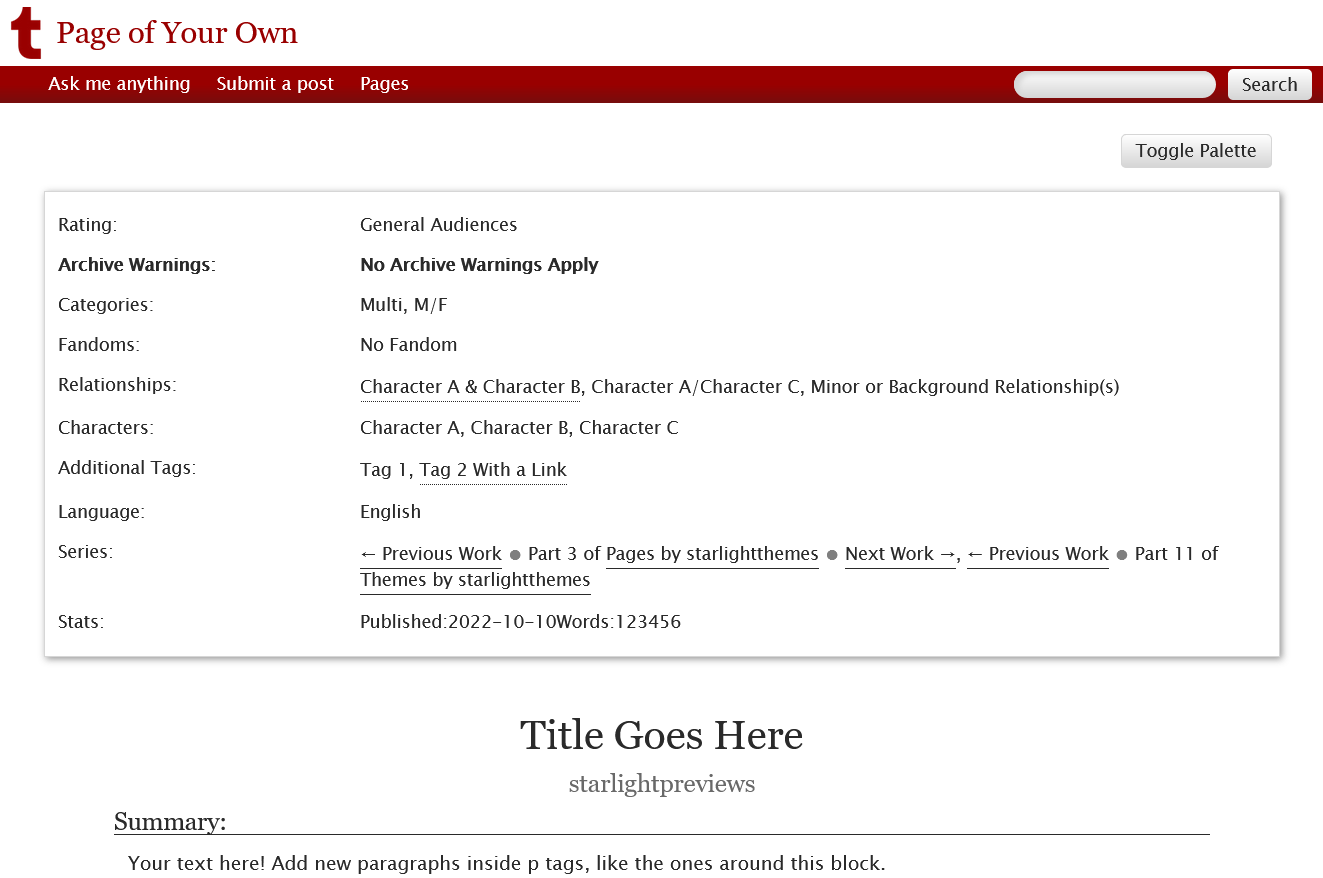
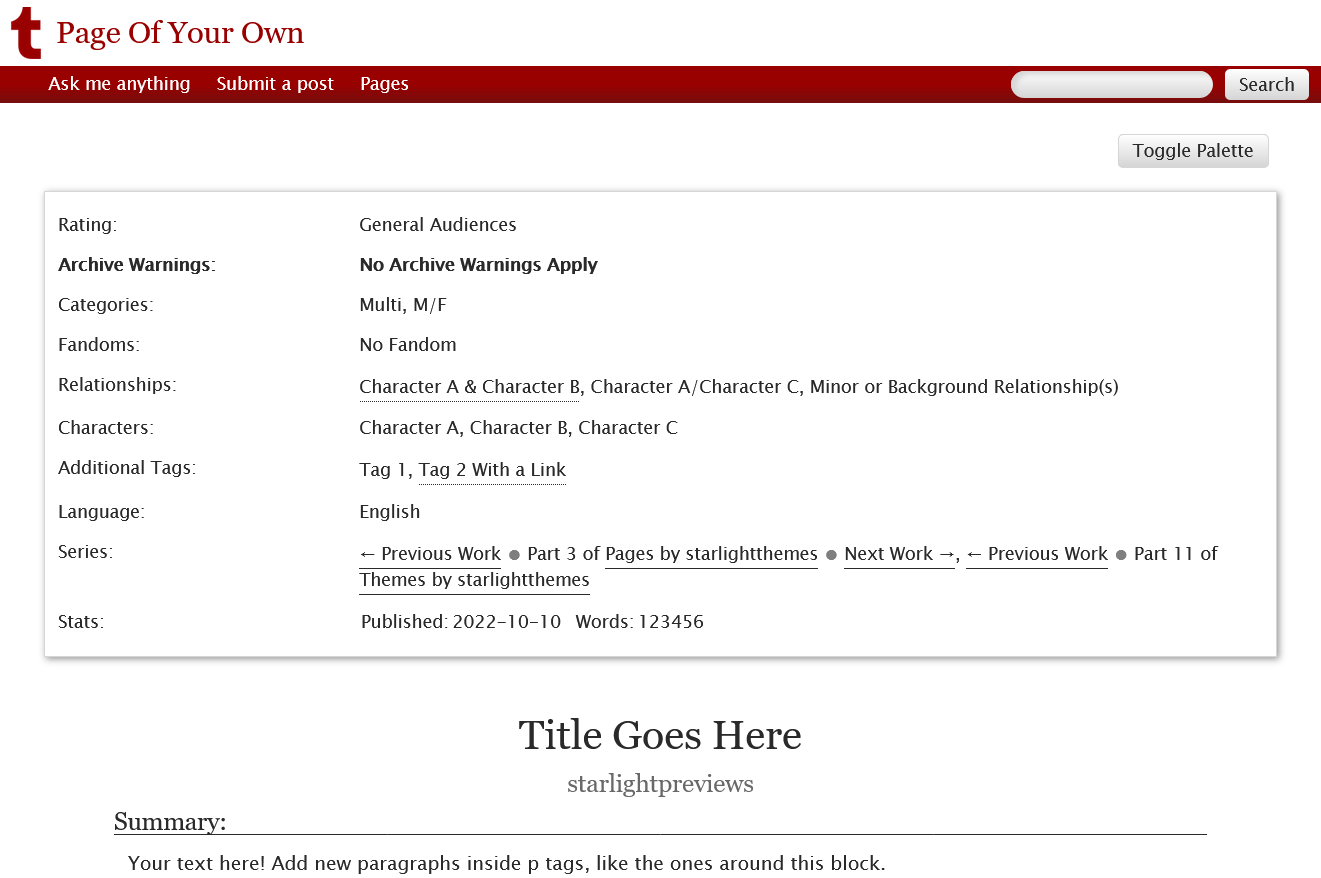
Fixed spacing in work stats section

diff --git a/pages/page3/page3.min.css b/pages/page3/page3.min.css
@@ -1,1 +1,1 @@
-.button,html{color:var(--text)}h2,h3{font-weight:400}#title h1,.button:hover{color:var(--accent)}#title:hover,a{color:inherit}#links #pages,#mobnav,#scrolltotop_parent,.button{display:inline-block}#pages .dropdown,#s-m-t-tooltip{box-shadow:.1em .1em .25em -.1em rgba(var(--text--rgb),.75)}#search input,.button{background:var(--bg) linear-gradient(var(--bg),var(--bg2))}#actions,#footer div div,#title{width:fit-content}#main a,#workbody{line-height:1.5}html{font-size:var(--font-size);background-color:var(--bg);font-family:var(--bfont);line-height:1.125}a{text-decoration:none;border-bottom:1px solid}#right a[href]:hover,main a[href]:hover{color:rgba(var(--text--rgb),.65)}.button{cursor:pointer;border-radius:.3em;padding:.35em .8em;margin:.3em .5em;border:1px solid var(--bg2)}#search input:focus,#search input:hover,.button.active,.button:focus,.button:hover{box-shadow:inset .25em .25em .25em var(--bg2)}.button:active{color:var(--text);background-image:unset}h1,h2,h3,h4,h5,h6{font-family:var(--tfont)}h2{font-size:2.35rem;margin:.1rem 0}h3{font-size:1.4rem}li,p{margin:1.375em 0}blockquote{border-inline-start:0.14em solid var(--bg2);margin-inline-start:1.5em;padding:.75em}blockquote>:first-child{margin-block-start:0}blockquote>:last-child{margin-block-end:0}ul{margin:1.125em 0;padding:0 1em}ol{margin:.75em 0;padding:0 1.5em}li{margin:.75em 0 .75em 1.75em}hr{width:33%;margin:.875em auto 1.25em}#hiddentitle,#search label,#skip{position:fixed;font-size:1px;top:-100rem}#s-m-t-tooltip{margin:1em;padding:.25em .5em;background:var(--bg);border:thin solid var(--bg2)}body.upper #links-search,body.upper .button,body.upper footer,body.upper h1,body.upper h2,body.upper h3,body.upper h4{text-transform:uppercase}body.lower #links-search,body.lower .button,body.lower .pagination,body.lower footer,body.lower h1,body.lower h2,body.lower h3,body.upper h4{text-transform:lowercase}#header{margin:0 0 1em}#title{display:flex;border:none;align-items:center;height:3.75em;padding-right:1.25em;gap:.25em}#title h1{font-weight:var(--tweight);font-size:1.75em;margin:0}#avatar,#logo{height:100%;width:auto}.padded#avatar,.padded#logo{padding:.4em 0}#links-search{background:var(--accent) linear-gradient(var(--accent) 50%,rgba(var(--text--rgb),.3));display:flex;flex-flow:row wrap;align-items:center;justify-content:space-between;padding:0 .7em 0 2em}#footer,#worktags>dd>a:hover{background-color:var(--accent)}html.alt .altinvert #links-search,html:not(.alt) .invert #links-search{background:var(--bg2) linear-gradient(rgba(var(--text--rgb),.2),rgba(var(--bg--rgb),.5) 90%)}html.alt .altinvert #links-search *,html:not(.alt) .invert #links-search *{color:var(--text)!important}#links span{border-bottom:none;color:var(--bg);display:inline-flex;padding:.5em .75em}#links .current-page,#worktags .warning{font-weight:700}#mobnav:not(.a,.s),#workhead:not(:nth-last-child(3)) .jump{display:none}#mobnav a:hover,#mobnav:hover span,#pages:hover span{color:var(--text);background-color:var(--bg2)}#pages:not(:hover) .dropdown{opacity:0;pointer-events:none}#pages .dropdown{position:absolute;left:0;display:flex;flex-direction:column;background-color:var(--bg2);padding:.25em;z-index:4}#pages span{cursor:help}#pages .dropdown a{padding:.75em .5em .5em;border-color:var(--text)}#workbody h6,h3.heading{border-bottom:thin solid}#pages .dropdown a:last-child{border-bottom:none}#pages .dropdown a:hover{color:inherit;background-color:rgba(var(--bg--rgb),.25)}#search{display:flex;align-items:center;gap:.7em;margin:.175em 0}#search input{border:none;margin:0;color:var(--text)}#search #q{height:1.55em;width:11.5em;border-radius:1em;padding:.15em .5em}#search input.button{height:1.75em}#page{padding:.5em 2.5em 3.5em;align-self:start}.tmblr-iframe--unified-controls.iframe-controls--desktop~#body #actions{top:50px}#actions{margin-bottom:1em;margin-left:auto;position:sticky;top:.5em;z-index:3}.button.active,.pagination a.curr:not([href]):hover{box-shadow:inset .25em .25em .25em rgba(var(--text--rgb),.2);background:var(--bg2)}body,html{height:100vh}#body{min-height:100vh;display:grid;grid-template-rows:auto 1fr auto}#footer{color:var(--bg);padding:2em 6%;font-size:.875em;display:flex;flex-flow:row wrap;gap:4%}#workbody,.jump{font-size:1.08em}#footer>div{flex-grow:1}#footer div div{max-height:11em;writing-mode:vertical-lr;display:flex;flex-wrap:wrap;justify-content:start;align-items:start;row-gap:7.5vw}#footer h3{margin:0 0 .5em;font-weight:400}#footer a,#footer span{border:none;padding:.5em 0;writing-mode:horizontal-tb}#footer span{color:rgba(var(--bg--rgb),.9)}#footer a{color:var(--bg);text-decoration:underline;text-underline-offset:0.3em}#footer a:hover{text-decoration-style:dotted}#worktags{border:thin solid var(--bg2);box-shadow:.1em .1em .356em rgba(var(--text--rgb),.5);padding:1.25em .75em;line-height:1.286;display:grid;grid-template-columns:1fr 3fr;row-gap:1em}#worktags *{margin:0}#worktags dt::after{content:":"}#worktags>dd>a{border-bottom:1px dotted}#worktags>dd>a:hover{color:var(--bg)}.stats *{display:inline;margin:0 .1em}.stats :first-child{margin-left:0}.stats dd+dt{margin-left:.75em}.series .separator::before{content:"\25CF";margin:0 .35em;color:rgba(var(--text--rgb),.6)}.series .prev::before{content:"← "}.series .next::after{content:" →"}#workbody,#workfoot,#workhead{margin:auto;max-width:80em}#workhead{padding:2em 4em 0}#workhead>:is(h2,h3){text-align:center}#workhead>h3{margin:.5em 0;color:rgba(var(--text--rgb),.7)}h3.heading{line-height:1;margin:.25em 0}:is(#summary,#top) div{margin:.75em;line-height:1.5;font-size:1.08em}:is(#summary,#top) div :first-child{margin-top:0}:is(#summary,#top) div :last-child{margin-bottom:0}#summary+#top{margin-top:2em}.jump{margin-top:1.5em}#workbody{padding:2em 0}#workbody h1{font-size:2.5em;font-weight:400;text-align:center}#workbody h2{color:rgba(var(--text--rgb),.9);margin:1.3em 0}#workbody h3{line-height:1;padding:.125em;border-block-end:0.25em double rgba(var(--text--rgb),0.9);margin:.5em 0}#workbody h4{font-size:1.143em;margin:.5em 0}#workbody h5{font-size:1em;margin:.75em 0;line-height:1.286}#workbody h6{font-size:.975em;margin:1.5em 0}#workfoot{padding:0 4em 2em}#series h3{border:none}#series ul{list-style:none;margin:0;padding:0 .75em}@media (min-width:60rem){#mobnav span{display:none}#mobnav a{border-bottom:none;color:var(--bg);display:inline-flex;padding:.5em .75em}#links #pages{position:relative}#links #pages .dropdown{left:0;min-width:20rem}}@media (max-width:60rem){#page{padding:.5em 3.5% 3.5em}#links-search{padding:0 .7em 0 0}#mobnav span{cursor:help}#mobnav:not(:hover) .dropdown{opacity:0;pointer-events:none}#mobnav .dropdown{position:absolute;left:0;display:flex;flex-direction:column;background-color:var(--bg2);padding:.25em;box-shadow:.1em .1em .25em -.1em rgba(var(--text--rgb),.75);z-index:4}#mobnav .dropdown a{padding:.75em .5em .5em;border-color:var(--text)}#mobnav .dropdown a:last-child{border-bottom:none}#mobnav .dropdown a:hover{color:inherit;background-color:rgba(var(--bg--rgb),.25)}#links .dropdown{width:100%}#workbody,#workfoot,#workhead{margin:auto 1.5%}}@media (max-width:40em){html{font-size:calc(.875 * var(--font-size))}#worktags{display:block}#worktags>dd{margin:0 0 .75em 1em}}
+.button,html{color:var(--text)}h2,h3{font-weight:400}#title h1,.button:hover{color:var(--accent)}#title:hover,a{color:inherit}#links #pages,#mobnav,#scrolltotop_parent,.button{display:inline-block}#pages .dropdown,#s-m-t-tooltip{box-shadow:.1em .1em .25em -.1em rgba(var(--text--rgb),.75)}#search input,.button{background:var(--bg) linear-gradient(var(--bg),var(--bg2))}#actions,#footer div div,#title{width:fit-content}#main a,#workbody{line-height:1.5}html{font-size:var(--font-size);background-color:var(--bg);font-family:var(--bfont);line-height:1.125}a{text-decoration:none;border-bottom:1px solid}#right a[href]:hover,main a[href]:hover{color:rgba(var(--text--rgb),.65)}.button{cursor:pointer;border-radius:.3em;padding:.35em .8em;margin:.3em .5em;border:1px solid var(--bg2)}#search input:focus,#search input:hover,.button.active,.button:focus,.button:hover{box-shadow:inset .25em .25em .25em var(--bg2)}.button:active{color:var(--text);background-image:unset}h1,h2,h3,h4,h5,h6{font-family:var(--tfont)}h2{font-size:2.35rem;margin:.1rem 0}h3{font-size:1.4rem}li,p{margin:1.375em 0}blockquote{border-inline-start:0.14em solid var(--bg2);margin-inline-start:1.5em;padding:.75em}blockquote>:first-child{margin-block-start:0}blockquote>:last-child{margin-block-end:0}ul{margin:1.125em 0;padding:0 1em}ol{margin:.75em 0;padding:0 1.5em}li{margin:.75em 0 .75em 1.75em}hr{width:33%;margin:.875em auto 1.25em}#hiddentitle,#search label,#skip{position:fixed;font-size:1px;top:-100rem}#s-m-t-tooltip{margin:1em;padding:.25em .5em;background:var(--bg);border:thin solid var(--bg2)}body.upper #links-search,body.upper .button,body.upper footer,body.upper h1,body.upper h2,body.upper h3,body.upper h4{text-transform:uppercase}body.lower #links-search,body.lower .button,body.lower .pagination,body.lower footer,body.lower h1,body.lower h2,body.lower h3,body.upper h4{text-transform:lowercase}#header{margin:0 0 1em}#title{display:flex;border:none;align-items:center;height:3.75em;padding-right:1.25em;gap:.25em}#title h1{font-weight:var(--tweight);font-size:1.75em;margin:0}#avatar,#logo{height:100%;width:auto}.padded#avatar,.padded#logo{padding:.4em 0}#links-search{background:var(--accent) linear-gradient(var(--accent) 50%,rgba(var(--text--rgb),.3));display:flex;flex-flow:row wrap;align-items:center;justify-content:space-between;padding:0 .7em 0 2em}#footer,#worktags>dd>a:hover{background-color:var(--accent)}html.alt .altinvert #links-search,html:not(.alt) .invert #links-search{background:var(--bg2) linear-gradient(rgba(var(--text--rgb),.2),rgba(var(--bg--rgb),.5) 90%)}html.alt .altinvert #links-search *,html:not(.alt) .invert #links-search *{color:var(--text)!important}#links span{border-bottom:none;color:var(--bg);display:inline-flex;padding:.5em .75em}#links .current-page,#worktags .warning{font-weight:700}#mobnav:not(.a,.s),#workhead:not(:nth-last-child(3)) .jump{display:none}#mobnav a:hover,#mobnav:hover span,#pages:hover span{color:var(--text);background-color:var(--bg2)}#pages:not(:hover) .dropdown{opacity:0;pointer-events:none}#pages .dropdown{position:absolute;left:0;display:flex;flex-direction:column;background-color:var(--bg2);padding:.25em;z-index:4}#pages span{cursor:help}#pages .dropdown a{padding:.75em .5em .5em;border-color:var(--text)}#workbody h6,h3.heading{border-bottom:thin solid}#pages .dropdown a:last-child{border-bottom:none}#pages .dropdown a:hover{color:inherit;background-color:rgba(var(--bg--rgb),.25)}#search{display:flex;align-items:center;gap:.7em;margin:.175em 0}#search input{border:none;margin:0;color:var(--text)}#search #q{height:1.55em;width:11.5em;border-radius:1em;padding:.15em .5em}#search input.button{height:1.75em}#page{padding:.5em 2.5em 3.5em;align-self:start}.tmblr-iframe--unified-controls.iframe-controls--desktop~#body #actions{top:50px}#actions{margin-bottom:1em;margin-left:auto;position:sticky;top:.5em;z-index:3}.button.active,.pagination a.curr:not([href]):hover{box-shadow:inset .25em .25em .25em rgba(var(--text--rgb),.2);background:var(--bg2)}body,html{height:100vh}#body{min-height:100vh;display:grid;grid-template-rows:auto 1fr auto}#footer{color:var(--bg);padding:2em 6%;font-size:.875em;display:flex;flex-flow:row wrap;gap:4%}#workbody,.jump{font-size:1.08em}#footer>div{flex-grow:1}#footer div div{max-height:11em;writing-mode:vertical-lr;display:flex;flex-wrap:wrap;justify-content:start;align-items:start;row-gap:7.5vw}#footer h3{margin:0 0 .5em;font-weight:400}#footer a,#footer span{border:none;padding:.5em 0;writing-mode:horizontal-tb}#footer span{color:rgba(var(--bg--rgb),.9)}#footer a{color:var(--bg);text-decoration:underline;text-underline-offset:0.3em}#footer a:hover{text-decoration-style:dotted}#worktags{border:thin solid var(--bg2);box-shadow:.1em .1em .356em rgba(var(--text--rgb),.5);padding:1.25em .75em;line-height:1.286;display:grid;grid-template-columns:1fr 3fr;row-gap:1em}#worktags *{margin:0}#worktags dt::after{content:":"}#worktags>dd>a{border-bottom:1px dotted}#worktags>dd>a:hover{color:var(--bg)}#worktags .stats *{display:inline;margin:0 .1em}.stats :first-child{margin-left:0}#worktags .stats dd+dt{margin-left:.75em}.series .separator::before{content:"\25CF";margin:0 .35em;color:rgba(var(--text--rgb),.6)}.series .prev::before{content:"← "}.series .next::after{content:" →"}#workbody,#workfoot,#workhead{margin:auto;max-width:80em}#workhead{padding:2em 4em 0}#workhead>:is(h2,h3){text-align:center}#workhead>h3{margin:.5em 0;color:rgba(var(--text--rgb),.7)}h3.heading{line-height:1;margin:.25em 0}:is(#summary,#top) div{margin:.75em;line-height:1.5;font-size:1.08em}:is(#summary,#top) div :first-child{margin-top:0}:is(#summary,#top) div :last-child{margin-bottom:0}#summary+#top{margin-top:2em}.jump{margin-top:1.5em}#workbody{padding:2em 0}#workbody h1{font-size:2.5em;font-weight:400;text-align:center}#workbody h2{color:rgba(var(--text--rgb),.9);margin:1.3em 0}#workbody h3{line-height:1;padding:.125em;border-block-end:0.25em double rgba(var(--text--rgb),0.9);margin:.5em 0}#workbody h4{font-size:1.143em;margin:.5em 0}#workbody h5{font-size:1em;margin:.75em 0;line-height:1.286}#workbody h6{font-size:.975em;margin:1.5em 0}#workfoot{padding:0 4em 2em}#series h3{border:none}#series ul{list-style:none;margin:0;padding:0 .75em}@media (min-width:60rem){#mobnav span{display:none}#mobnav a{border-bottom:none;color:var(--bg);display:inline-flex;padding:.5em .75em}#links #pages{position:relative}#links #pages .dropdown{left:0;min-width:20rem}}@media (max-width:60rem){#page{padding:.5em 3.5% 3.5em}#links-search{padding:0 .7em 0 0}#mobnav span{cursor:help}#mobnav:not(:hover) .dropdown{opacity:0;pointer-events:none}#mobnav .dropdown{position:absolute;left:0;display:flex;flex-direction:column;background-color:var(--bg2);padding:.25em;box-shadow:.1em .1em .25em -.1em rgba(var(--text--rgb),.75);z-index:4}#mobnav .dropdown a{padding:.75em .5em .5em;border-color:var(--text)}#mobnav .dropdown a:last-child{border-bottom:none}#mobnav .dropdown a:hover{color:inherit;background-color:rgba(var(--bg--rgb),.25)}#links .dropdown{width:100%}#workbody,#workfoot,#workhead{margin:auto 1.5%}}@media (max-width:40em){html{font-size:calc(.875 * var(--font-size))}#worktags{display:block}#worktags>dd{margin:0 0 .75em 1em}}

diff --git a/pages/page3/page3.css b/pages/page3/page3.css
@@ -278,9 +278,9 @@ html, body { height: 100vh }
 #worktags > dd > a { border-bottom: 1px dotted }
 #worktags > dd > a:hover { background-color: var(--accent); color: var(--bg) }
 #worktags .warning { font-weight: bold }
-.stats * { display: inline; margin: 0 0.1em }
+#worktags .stats * { display: inline; margin: 0 0.1em }
 .stats :first-child { margin-left: 0 }
-.stats dd + dt { margin-left: 0.75em }
+#worktags .stats dd + dt { margin-left: 0.75em }
 /* Series navigation */
 .series .separator::before {
 	content: "\25CF";
